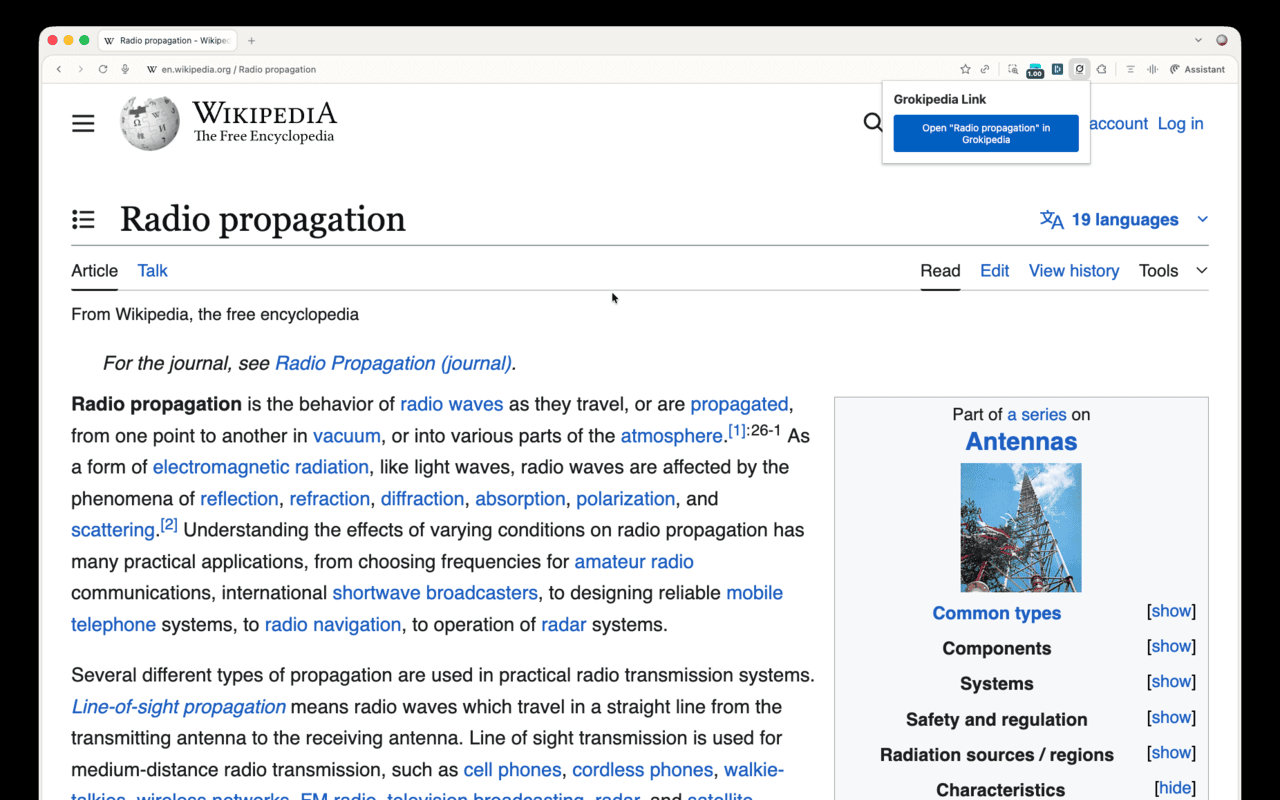
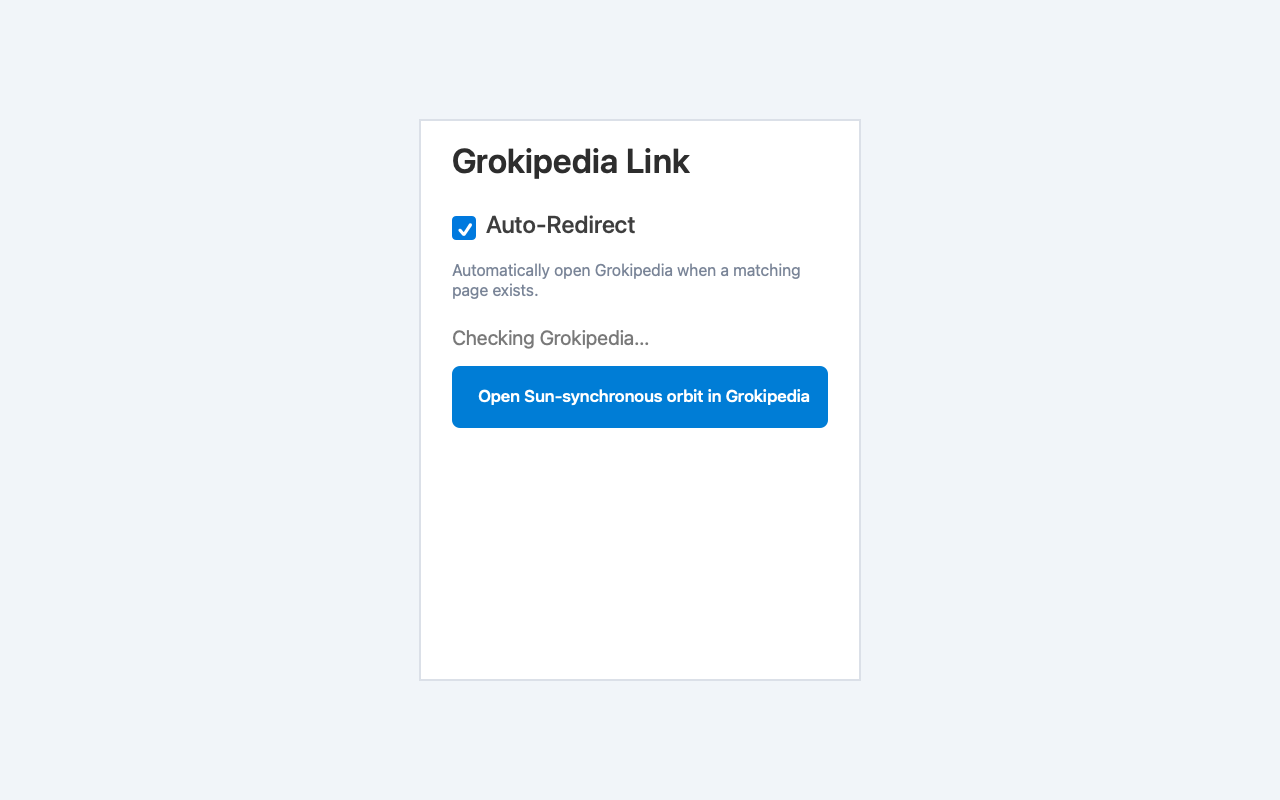
add redirection option

diff --git a/popup.js b/popup.js
@@ -1,31 +1,91 @@
-document.addEventListener('DOMContentLoaded', async () => {
+const AUTO_REDIRECT_STORAGE_KEY = 'autoRedirectEnabled';
+const WIKIPEDIA_PATH_PREFIX = '/wiki/';
+
+function isWikipediaHost(hostname) {
+    return hostname === 'wikipedia.org' || hostname.endsWith('.wikipedia.org');
+}
+
+function getArticleTitleFromWikipediaUrl(rawUrl) {
+    let url;
+
+    try {
+        url = new URL(rawUrl);
+    } catch (error) {
+        return null;
+    }
+
+    if (!isWikipediaHost(url.hostname) || !url.pathname.startsWith(WIKIPEDIA_PATH_PREFIX)) {
+        return null;
+    }
+
+    const articleTitle = url.pathname.slice(WIKIPEDIA_PATH_PREFIX.length);
+    return articleTitle || null;
+}
+
+function getGrokipediaUrl(articleTitle) {
+    return `https://grokipedia.com/page/${articleTitle}`;
+}
+
+function formatArticleTitle(articleTitle) {
+    try {
+        return decodeURIComponent(articleTitle).replace(/_/g, ' ');
+    } catch (error) {
+        return articleTitle.replace(/_/g, ' ');
+    }
+}
+
+async function isGrokipediaArticleAvailable(articleTitle) {
+    try {
+        const response = await fetch(getGrokipediaUrl(articleTitle), { method: 'GET' });
+        return response.ok;
+    } catch (error) {
+        return false;
+    }
+}
+
+async function initializeAutoRedirectToggle() {
+    const toggleElement = document.getElementById('auto-redirect-toggle');
+    const storageResult = await chrome.storage.sync.get({ [AUTO_REDIRECT_STORAGE_KEY]: false });
+    toggleElement.checked = Boolean(storageResult[AUTO_REDIRECT_STORAGE_KEY]);
+
+    toggleElement.addEventListener('change', async () => {
+        await chrome.storage.sync.set({ [AUTO_REDIRECT_STORAGE_KEY]: toggleElement.checked });
+    });
+}
+
+async function updatePopupForCurrentTab() {
+    const statusElement = document.getElementById('status');
+    const linkElement = document.getElementById('grokipedia-link');
     const [tab] = await chrome.tabs.query({ active: true, currentWindow: true });
 
-    if (!tab.url) {
-        document.getElementById('status').textContent = 'Unable to access page URL';
+    if (!tab?.url) {
+        statusElement.textContent = 'Unable to access page URL';
         return;
     }
 
-    const url = new URL(tab.url);
-
-    if (!url.hostname.includes('wikipedia.org')) {
-        document.getElementById('status').textContent = 'Please navigate to a Wikipedia article';
+    const articleTitle = getArticleTitleFromWikipediaUrl(tab.url);
+    if (!articleTitle) {
+        statusElement.textContent = 'Please navigate to a Wikipedia article';
         return;
     }
 
-    const pathParts = url.pathname.split('/');
-    const articleTitle = pathParts[pathParts.length - 1];
+    statusElement.classList.remove('hidden');
+    statusElement.textContent = 'Checking Grokipedia...';
 
-    if (!articleTitle || articleTitle === '') {
-        document.getElementById('status').textContent = 'No article found on this page';
+    const isAvailable = await isGrokipediaArticleAvailable(articleTitle);
+    if (!isAvailable) {
+        linkElement.classList.add('hidden');
+        statusElement.textContent = 'Not Available';
         return;
     }
 
-    const grokipediaUrl = `https://grokipedia.com/page/${articleTitle}`;
-    const linkElement = document.getElementById('grokipedia-link');
-    linkElement.href = grokipediaUrl;
-    linkElement.textContent = `Open "${articleTitle.replace(/_/g, ' ')}" in Grokipedia`;
+    linkElement.href = getGrokipediaUrl(articleTitle);
+    linkElement.textContent = `Open "${formatArticleTitle(articleTitle)}" in Grokipedia`;
     linkElement.classList.remove('hidden');
-    document.getElementById('status').classList.add('hidden');
-});
+    statusElement.classList.add('hidden');
+}
 
+document.addEventListener('DOMContentLoaded', async () => {
+    await initializeAutoRedirectToggle();
+    await updatePopupForCurrentTab();
+});

diff --git a/background.js b/background.js
@@ -1,0 +1,77 @@
+const AUTO_REDIRECT_STORAGE_KEY = 'autoRedirectEnabled';
+const WIKIPEDIA_PATH_PREFIX = '/wiki/';
+
+function isWikipediaHost(hostname) {
+    return hostname === 'wikipedia.org' || hostname.endsWith('.wikipedia.org');
+}
+
+function getArticleTitleFromWikipediaUrl(rawUrl) {
+    let url;
+
+    try {
+        url = new URL(rawUrl);
+    } catch (error) {
+        return null;
+    }
+
+    if (!isWikipediaHost(url.hostname) || !url.pathname.startsWith(WIKIPEDIA_PATH_PREFIX)) {
+        return null;
+    }
+
+    const articleTitle = url.pathname.slice(WIKIPEDIA_PATH_PREFIX.length);
+    return articleTitle || null;
+}
+
+function getGrokipediaUrl(articleTitle) {
+    return `https://grokipedia.com/page/${articleTitle}`;
+}
+
+async function isGrokipediaArticleAvailable(articleTitle) {
+    try {
+        const response = await fetch(getGrokipediaUrl(articleTitle), { method: 'GET' });
+        return response.ok;
+    } catch (error) {
+        return false;
+    }
+}
+
+async function maybeRedirectToGrokipedia(tabId, sourceUrl) {
+    const articleTitle = getArticleTitleFromWikipediaUrl(sourceUrl);
+
+    if (!articleTitle) {
+        return;
+    }
+
+    const storageResult = await chrome.storage.sync.get({ [AUTO_REDIRECT_STORAGE_KEY]: false });
+    const isAutoRedirectEnabled = Boolean(storageResult[AUTO_REDIRECT_STORAGE_KEY]);
+
+    if (!isAutoRedirectEnabled) {
+        return;
+    }
+
+    const isAvailable = await isGrokipediaArticleAvailable(articleTitle);
+    if (!isAvailable) {
+        return;
+    }
+
+    let tab;
+    try {
+        tab = await chrome.tabs.get(tabId);
+    } catch (error) {
+        return;
+    }
+
+    if (tab.url !== sourceUrl) {
+        return;
+    }
+
+    await chrome.tabs.update(tabId, { url: getGrokipediaUrl(articleTitle) });
+}
+
+chrome.tabs.onUpdated.addListener((tabId, changeInfo) => {
+    if (typeof changeInfo.url !== 'string') {
+        return;
+    }
+
+    maybeRedirectToGrokipedia(tabId, changeInfo.url);
+});

diff --git a/popup.html b/popup.html
@@ -7,10 +7,14 @@
 <body>
     <div class="container">
         <h2>Grokipedia Link</h2>
+        <label class="toggle-row" for="auto-redirect-toggle">
+            <input type="checkbox" id="auto-redirect-toggle">
+            <span>Auto-Redirect</span>
+        </label>
+        <p id="toggle-description">Automatically open Grokipedia when a matching page exists.</p>
         <div id="status">Checking current page...</div>
         <a id="grokipedia-link" href="#" target="_blank" class="hidden">Open in Grokipedia</a>
     </div>
     <script src="popup.js"></script>
 </body>
 </html>
-

diff --git a/popup.css b/popup.css
@@ -15,6 +15,26 @@ h2 {
     color: #333;
 }
 
+.toggle-row {
+    display: flex;
+    align-items: center;
+    gap: 8px;
+    font-size: 14px;
+    margin-bottom: 6px;
+    color: #333;
+    user-select: none;
+}
+
+#auto-redirect-toggle {
+    margin: 0;
+}
+
+#toggle-description {
+    margin: 0 0 12px 0;
+    color: #666;
+    font-size: 12px;
+}
+
 #status {
     color: #666;
     font-size: 14px;
@@ -40,4 +60,3 @@ h2 {
 .hidden {
     display: none !important;
 }
-

diff --git a/README.md b/README.md
@@ -5,6 +5,10 @@ This repo is a chrome extension that creates redirect links to Grokipedia pages 
 ## What does the extension do?
 When you are on a Wikipedia article, it creates a link to the Grokipedia page for that article, and shows up when you click the extension icon on your browser.
 
+It also includes an **Auto-Redirect** option in the popup:
+- If Auto-Redirect is enabled and the Grokipedia page exists, the extension automatically redirects Wikipedia article tabs to Grokipedia.
+- If the page is not available on Grokipedia, the popup shows `Not Available`.
+
 ## Grokipedia URL structure
 
 - Wikipedia article: https://en.wikipedia.org/wiki/Sun-synchronous_orbit
